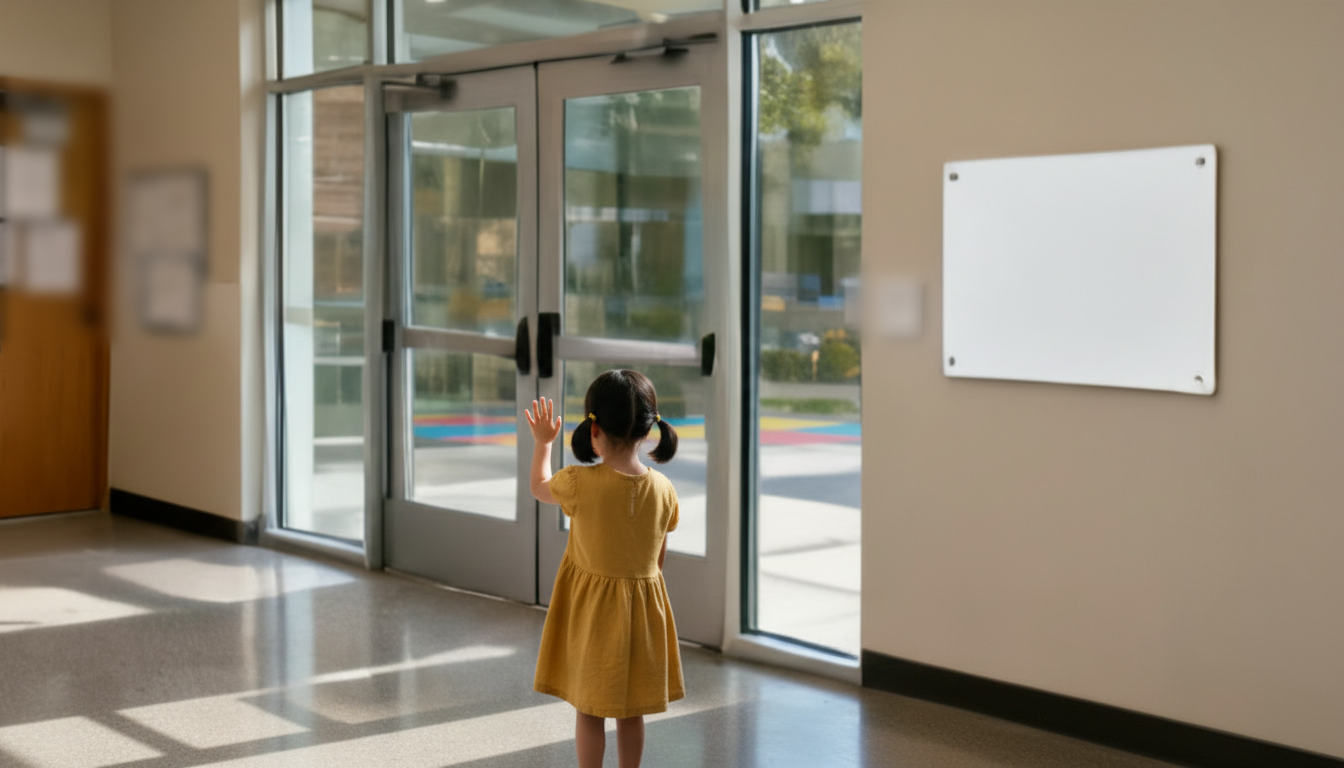
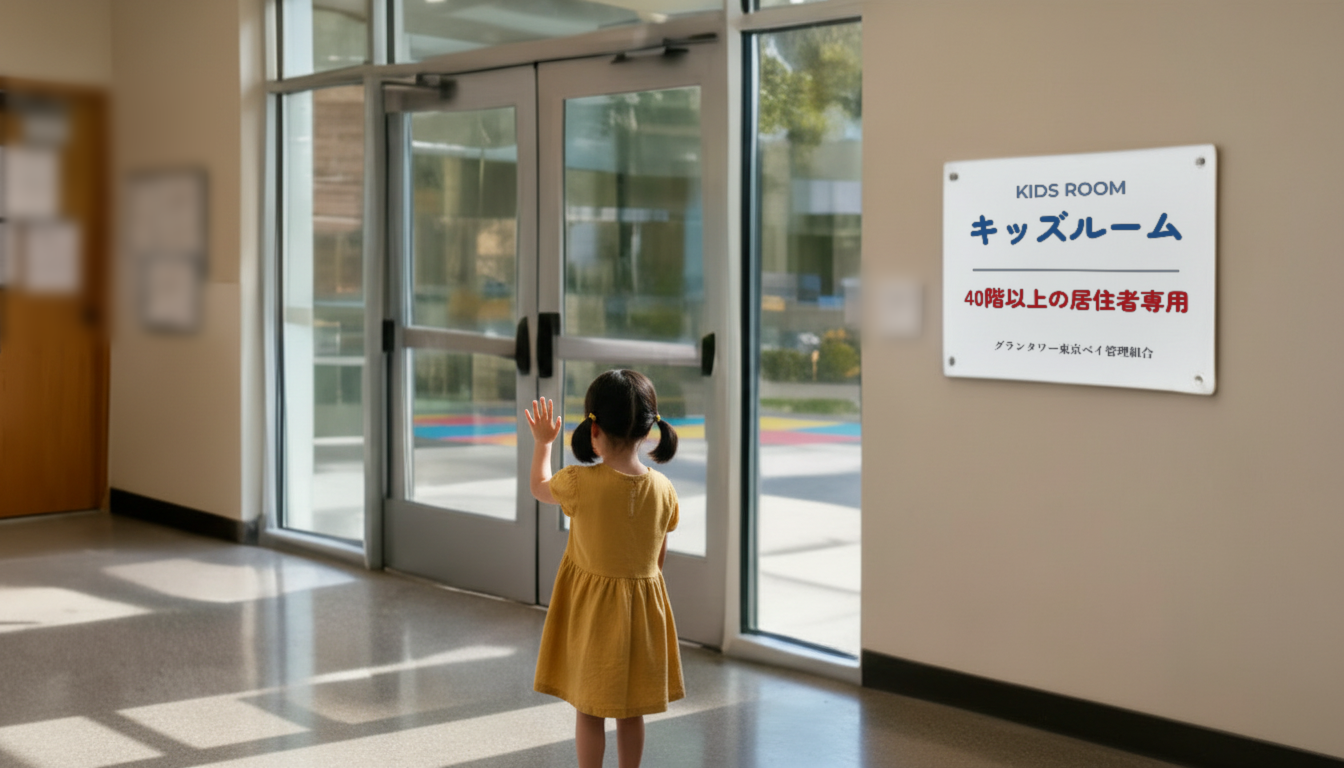
키즈룸 안내판 연속성(S03d·S03e2 합성 추가), S02b 그래픽 푸시인
Claude-Session: https://claude.ai/code/session_01NcCUyptYk83EHSkd2nddfa

Changed region(s): [[0.7188, 0.3438, 0.9062, 0.4062], [0.7188, 0.2188, 0.875, 0.3125], [0.75, 0.4375, 0.875, 0.4688]]

diff --git a/scripts/tower_composite.py b/scripts/tower_composite.py
@@ -320,6 +320,9 @@ JOBS = {
     "S02c2": [("replace", P((445, 323), (876, 323), (876, 570), (445, 570)), lambda w, h: art_lounge(w, h))],
     # 키즈룸 안내판
     "S03a": [("ink", P((967, 192), (1245, 171), (1243, 421), (971, 407)), lambda w, h: art_kids_board(w, h, "40階以上の居住者専用", (190, 30, 36)))],
+    # 같은 안내판이 보이는 S03 후속 컷(연속성) — S03a와 같은 문구
+    "S03d": [("ink", P((943, 163), (1216, 146), (1216, 394), (945, 375)), lambda w, h: art_kids_board(w, h, "40階以上の居住者専用", (190, 30, 36)))],
+    "S03e2": [("ink", P((994, 189), (1282, 170), (1282, 434), (994, 414)), lambda w, h: art_kids_board(w, h, "40階以上の居住者専用", (190, 30, 36)))],
     "S18a": [("ink", P((976, 177), (1265, 158), (1265, 425), (972, 407)), lambda w, h: art_kids_board(w, h, "どなたでもご利用ください", (30, 130, 70)))],
     # 통지서(손가락 보호)
     "S04b": [("paper", P((569, 392), (739, 392), (732, 605), (572, 605)), lambda w, h: art_notice(w, h))],
@@ -431,7 +434,7 @@ def apply(a, mode, q, art_fn, sigma_override=None, protect=False):
 
 
 # 무지 면은 질감이 없어 초점이 나간 것으로 오판됨 → 실제 초점(가장자리·나사 선명도)을 보고 직접 지정
-SIGMA = {"S03a": 0.4, "S18a": 0.4, "S16h": 0.5, "S19b": 1.0, "S19f": 0.5, "S11a2": 0.5, "S10c": 0.6, "S14e": 0.7,
+SIGMA = {"S03a": 0.4, "S03d": 0.6, "S03e2": 0.6, "S18a": 0.4, "S16h": 0.5, "S19b": 1.0, "S19f": 0.5, "S11a2": 0.5, "S10c": 0.6, "S14e": 0.7,
          "S14c": 0.5, "S14a": 0.5, "S13e": 0.6, "S02c2": 0.4, "S04b": 0.4, "S12a": 0.4, "S17c": 0.4, "S10a2": 0.5, "S06a": 1.2}
 PROTECT = {"S04b", "S10a", "S12a"}  # 손·펜·소매가 면을 가리는 컷
 

diff --git a/scripts/build_tower_overrides.py b/scripts/build_tower_overrides.py
@@ -129,7 +129,12 @@ def card(sid, out, sec):
     os.remove(p)
 
 
+FX_OVERRIDE = {"S02b": "push"}   # 그래픽 패널이 팬에 잘리지 않게
+
+
 def default_fx(s):
+    if s["id"] in FX_OVERRIDE:
+        return FX_OVERRIDE[s["id"]]
     if s["edit_fx"] in ("push", "pull", "pan", "dutch7", "dutch5", "dollyzoom"):
         return s["edit_fx"]
     return "pan" if s["size"] in ("ws", "ews") else "push"
